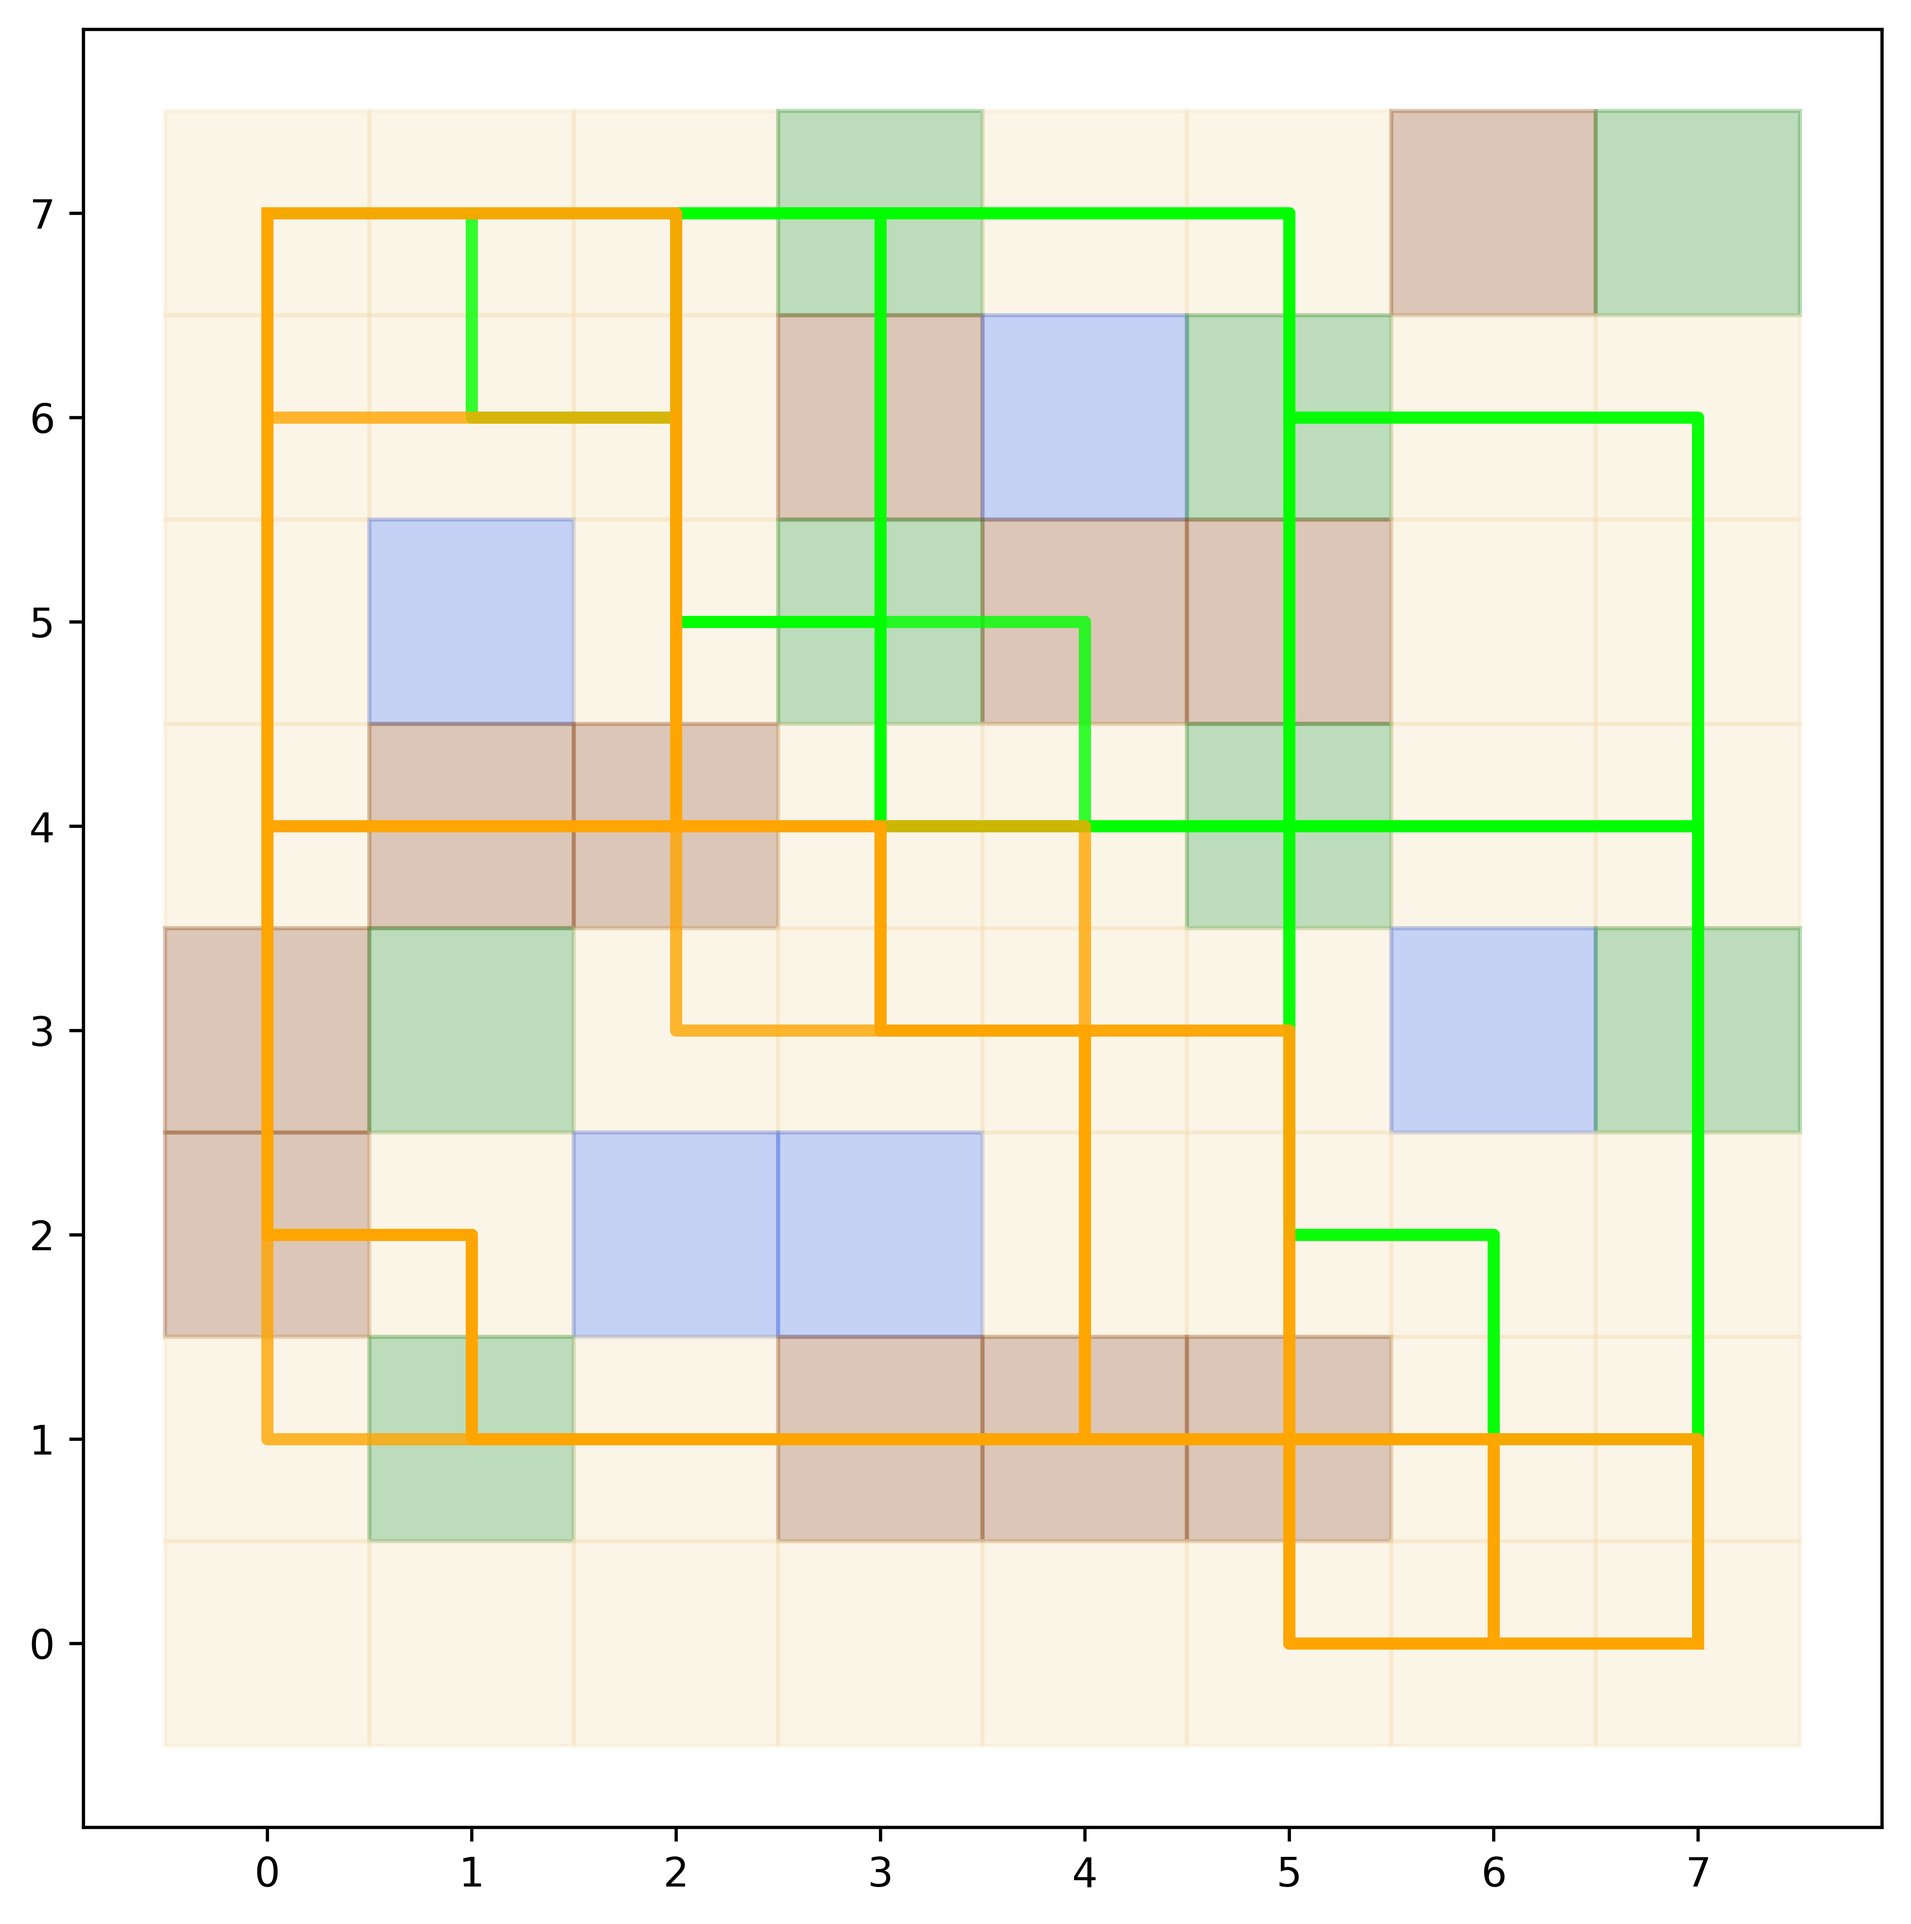
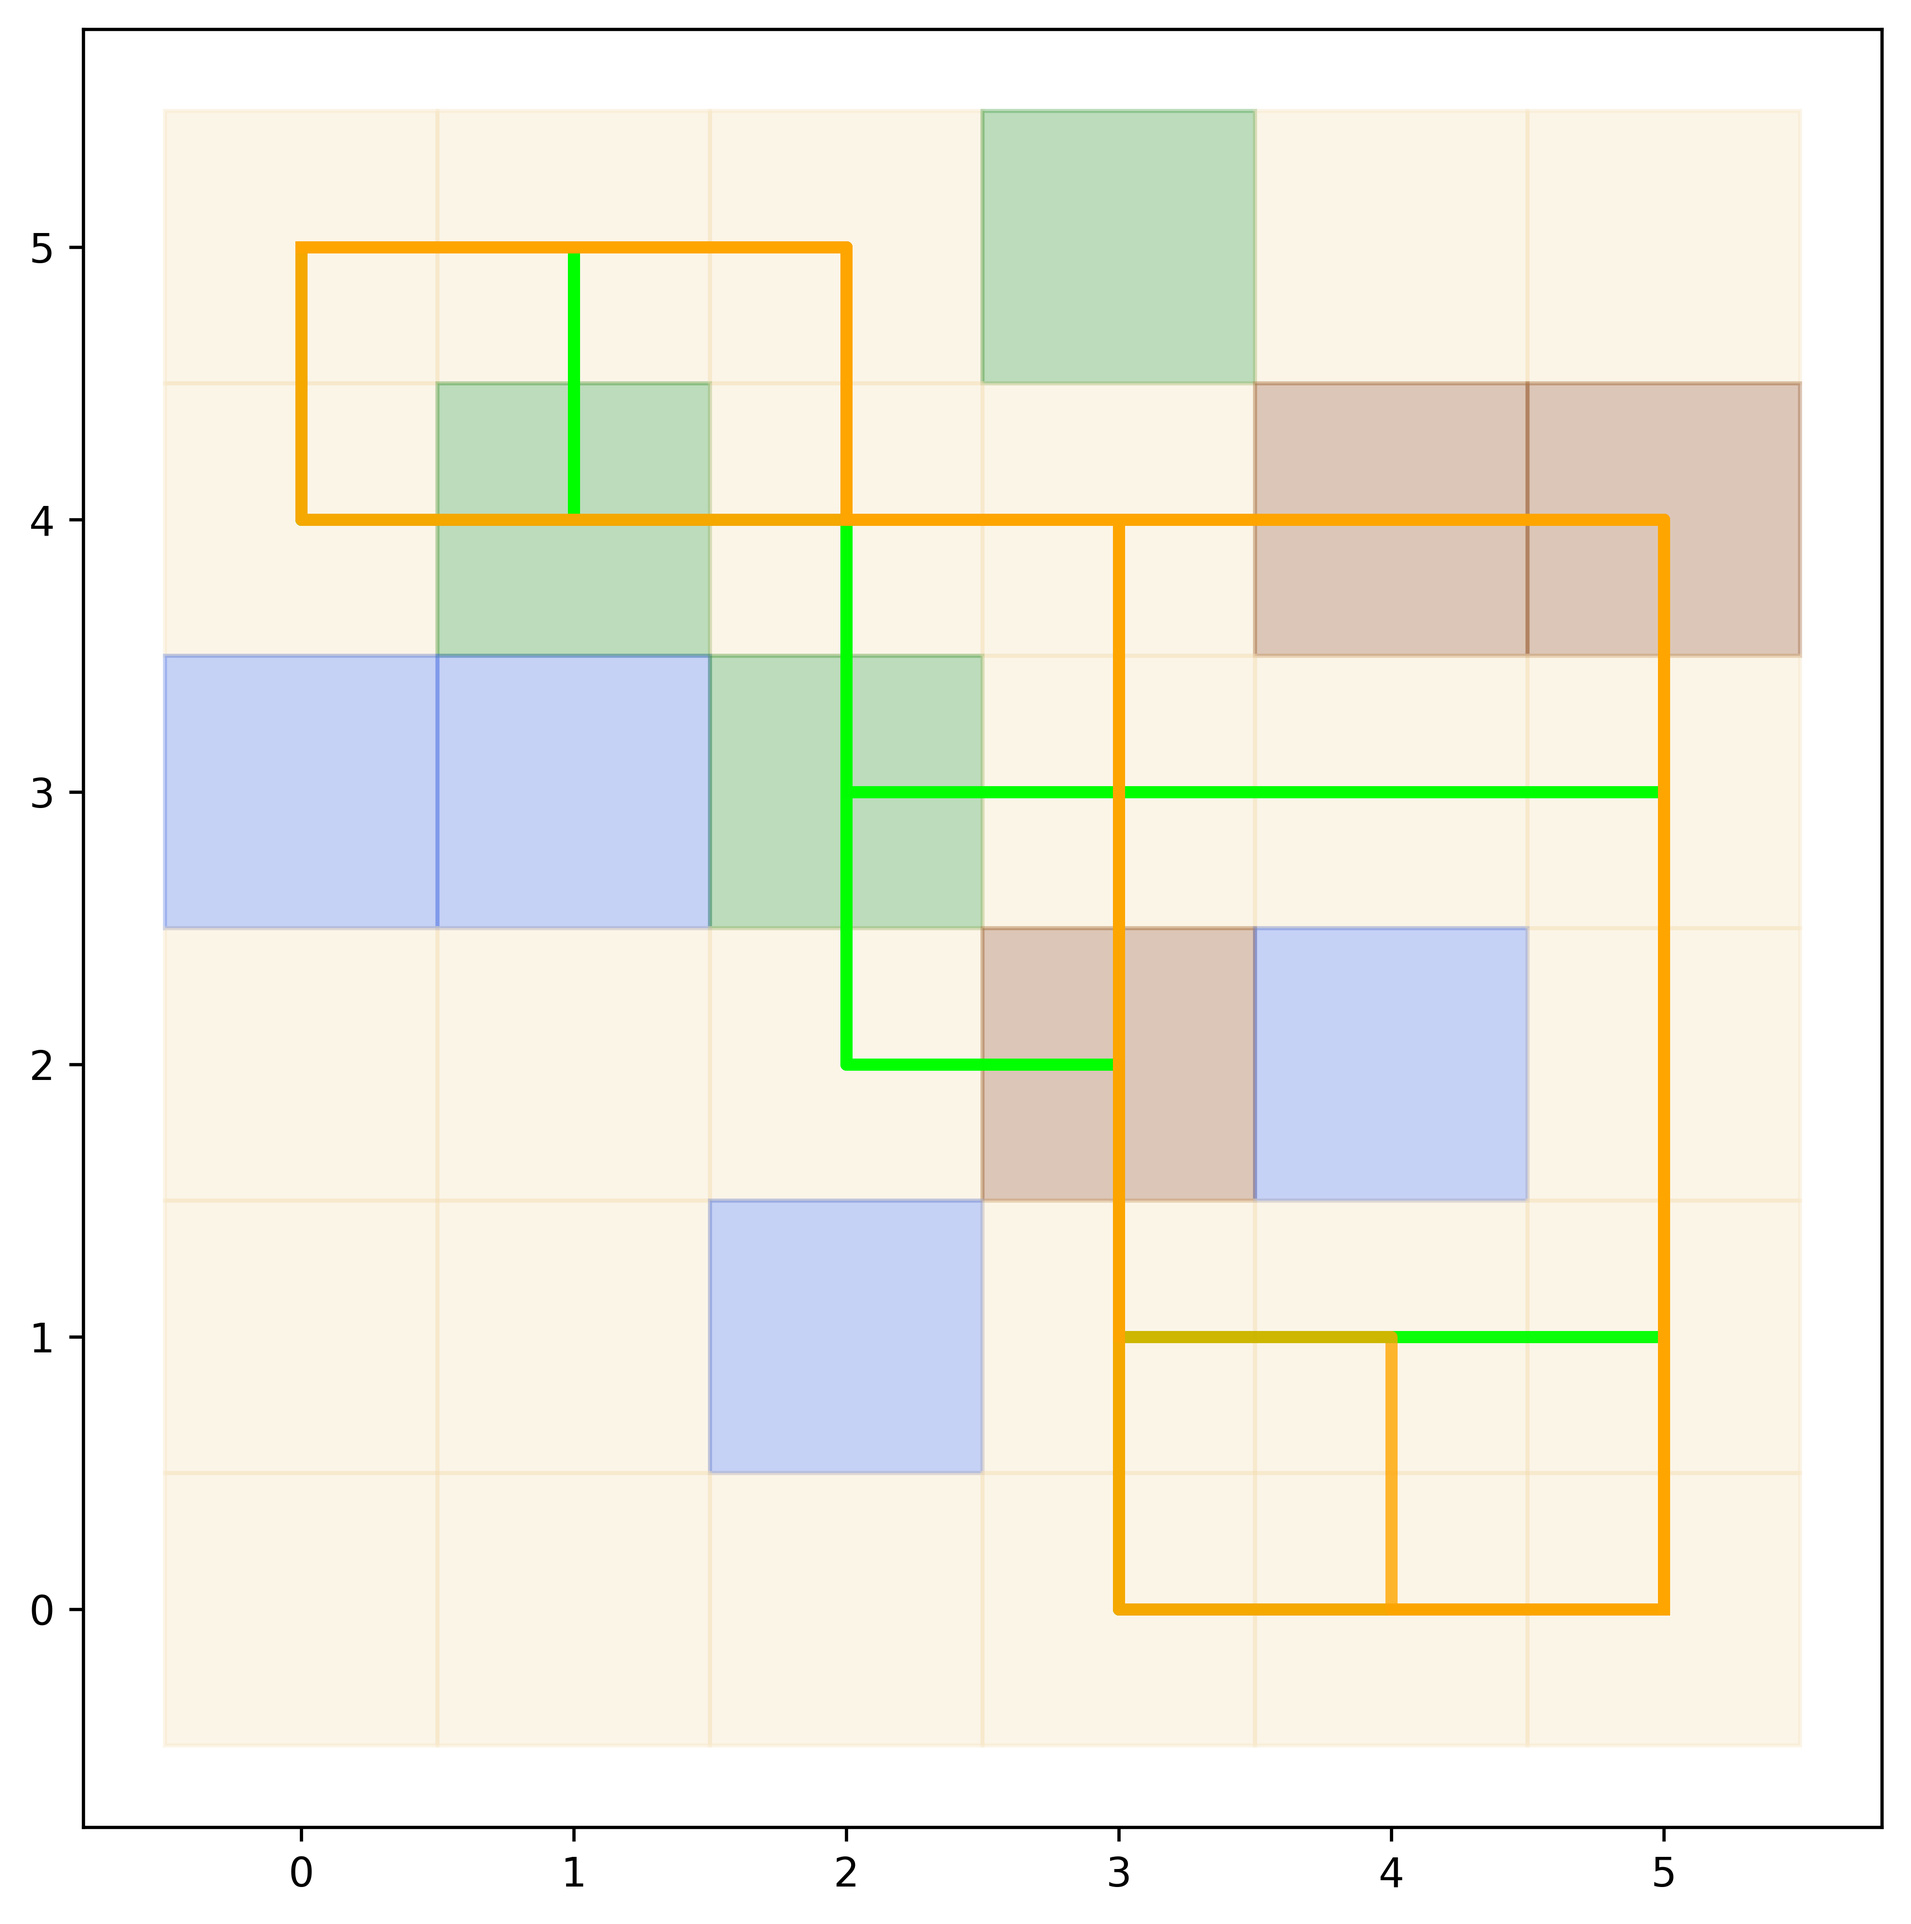
comparirison on run time and constraint inference for both MOCI and MLCI is done

diff --git a/comparison_with_Exs_tech.py b/comparison_with_Exs_tech.py
@@ -1,11 +1,11 @@
 
-from mlci import run_algo
+import time 
 import numpy as np
 import matplotlib.pyplot as plt
 import matplotlib.patches as patches
 import gridworld as gw
 import MOCI_IRL as moci
-import Sensitivity_Scalability_analysis as SSA
+from mlci import run_algo
 
 
 """Helper function to define the MDP and generate expert demonstrations."""
@@ -25,7 +25,7 @@ import Sensitivity_Scalability_analysis as SSA
 GRID_SIZE = 6 
 
 # --- STEP 2: DEFINE TERRAIN STATES (indices) ---
-WATER = [12,13,22] # RIVER / HARD CONSTRAINTS
+WATER = [12,13,22,26] # RIVER / HARD CONSTRAINTS
 GRASS = [3,7,14]
 ROCKS = [10,11,21]
 
@@ -168,66 +168,31 @@ if __name__ == "__main__":
     GRID_SIZE, w1,w2, WATER, mdp, demos_mlci_format, demos_moci_format, resp = define_mdp_and_demos()
     # Run the Expectation Maximization-MOCI (em_moci) framework
     
-    inferred_c, final_weights, final_priors = moci.run_em_moci(mdp, demos_moci_format, K=2, d_DKL=0.05, max_em_iters=10)
+    # --- Calculate Time and constraint for MOCI ---
+    start_moci = time.time()
+    inferred_c, final_weights, final_priors = moci.run_em_moci( mdp, demos_moci_format, K=2, d_DKL=0.05, max_em_iters=1)
+    end_moci = time.time()
+    moci_duration = end_moci - start_moci
 
-
-        # 4. Run MLCI
+    # --- Calculate Time and constraints for MLCI ---
+    start_mlci = time.time()
     inferred_constraints = run_algo(demos_mlci_format, WATER, GRID_SIZE)
+    end_mlci = time.time()
+    mlci_duration = end_mlci - start_mlci
+
+    # --- Calculate mean squared errors for MOCI and MLCI ---
+    mse_moci = calculate_cmse(WATER, inferred_c, mdp.num_states)
+    mse_mlci = calculate_cmse(WATER, inferred_constraints, mdp.num_states)
+
+    
+    
+    # --- Print the results ---
     
     print("\nFinal Result:")
     print(f"Ground Truth WATER tiles: {WATER}",f"Inferred Constraints MOCI: {list(inferred_c)}", f"Inferred Constraints MLCI: {inferred_constraints}")
 
-    mse_moci = calculate_cmse(WATER, inferred_c, mdp.num_states)
     print(f"Constraint Mean Squared Error for MOCI: {mse_moci}")
-    mse_mlci = calculate_cmse(WATER, inferred_constraints, mdp.num_states)
     print(f"Constraint Mean Squared Error for MLCI: {mse_mlci}")
 
-
-
-
-
-
-
-
-
-
-
-
-
-
-
-
-
-
-# Assuming 'moci', 'mdp', and 'WATER' are already defined
-N_DEMOS_EXPERT1 = 5
-N_DEMOS_EXPERT2 = 5
-
-w1 = np.array([1.0, 3.0, -1.0, -10.0]) # Expert 1: Grass Lover
-w2 = np.array([1.0, -1.0, 3.0, -10.0]) # Expert 2: Rock Lover
-
-z1 = moci.backward_pass(mdp, w1, WATER)
-z2 = moci.backward_pass(mdp, w2, WATER)
-
-# Initialize the two dataset lists
-demos_moci_format = []  # List of state-only lists
-demos_mlci_format = []  # List of state-action tuple lists
-
-# Generate for Expert 1
-for _ in range(N_DEMOS_EXPERT1):
-    t_states, t_sa = sample_traj_both_formats(mdp, w1, z1)
-    demos_moci_format.append(t_states)
-    demos_mlci_format.append(t_sa)
-
-# Generate for Expert 2
-for _ in range(N_DEMOS_EXPERT2):
-    t_states, t_sa = sample_traj_both_formats(mdp, w2, z2)
-    demos_moci_format.append(t_states)
-    demos_mlci_format.append(t_sa)
-
-# --- Verification ---
-print("--- MOCI Format (States Only) ---")
-print(demos_moci_format[0])
-
-print("\n--- MLCI Format (State-Action Pairs) ---")
-print(demos_mlci_format[0])
+    print(f"MOCI Run-time: {moci_duration:.4f} seconds")
+    print(f"MLCI Run-time: {mlci_duration:.4f} seconds")

diff --git a/mlci.py b/mlci.py
@@ -193,17 +193,17 @@ def run_algo(mock_trajs, true_constraints, size):
     # 1. Initialize Nominal MDP (5x5 grid)
     mdp = SimpleGridMDP(size)
     
-    # 2. Define "True" Hard Constraints (e.g., states 12 and 13 are walls)
-    # The expert will avoid these, but the nominal MDP doesn't know about them yet.
-    true_constraints = {12, 13}
+    # # 2. Define "True" Hard Constraints (e.g., states 12 and 13 are walls)
+    # # The expert will avoid these, but the nominal MDP doesn't know about them yet.
+    # true_constraints = {12, 13}
     
-    # 3. Generate Mock Expert Trajectories that avoid 12 and 13
-    # Trajectory format: list of (state, action)
-    mock_trajs = [
-        [(0, 3), (1, 3), (2, 3), (3, 1), (8, 1), (13, 3), (14, 1), (19, 1), (24, None)], # Suboptimal, ignores constraints intentionally for mock
-        [(5, 3), (6, 1), (11, 1), (16, 3), (17, 3), (18, 3), (19, 1), (24, None)],       # Avoids 12, 13
-        [(0, 1), (5, 1), (10, 1), (15, 1), (20, 3), (21, 3), (22, 3), (23, 3), (24, None)] # Bottom edge path
-    ]
+    # # 3. Generate Mock Expert Trajectories that avoid 12 and 13
+    # # Trajectory format: list of (state, action)
+    # mock_trajs = [
+    #     [(0, 3), (1, 3), (2, 3), (3, 1), (8, 1), (13, 3), (14, 1), (19, 1), (24, None)], # Suboptimal, ignores constraints intentionally for mock
+    #     [(5, 3), (6, 1), (11, 1), (16, 3), (17, 3), (18, 3), (19, 1), (24, None)],       # Avoids 12, 13
+    #     [(0, 1), (5, 1), (10, 1), (15, 1), (20, 3), (21, 3), (22, 3), (23, 3), (24, None)] # Bottom edge path
+    # ]
     
     print(f"True hidden constraints: {true_constraints}")
     print("Running MLCI to infer constraints...")
